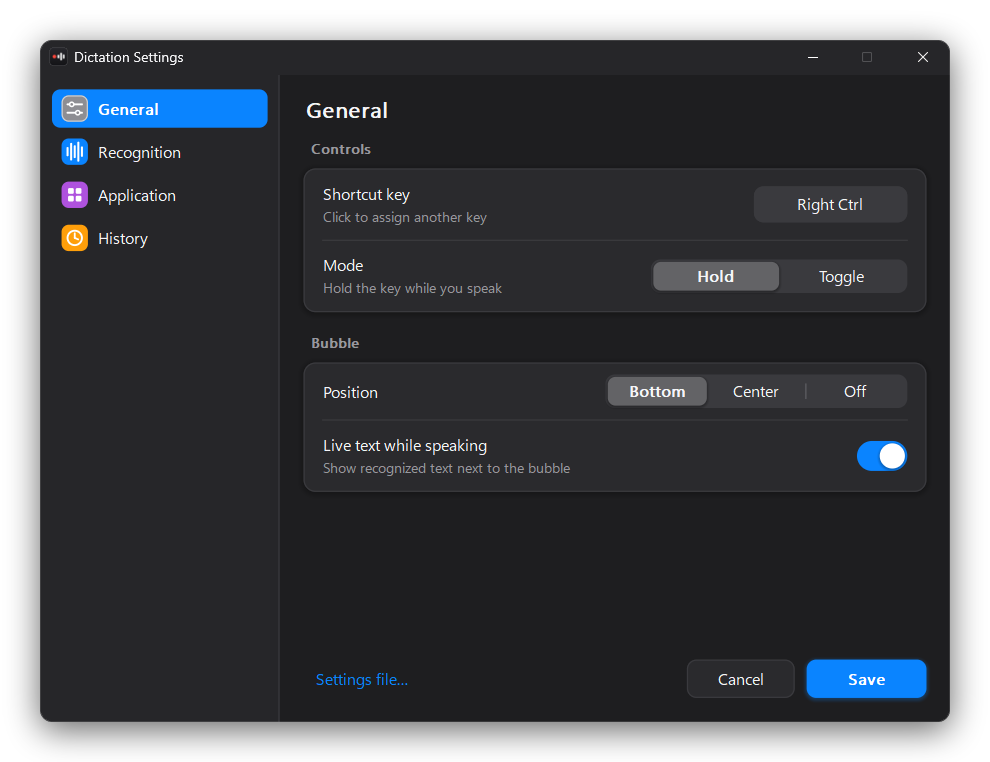
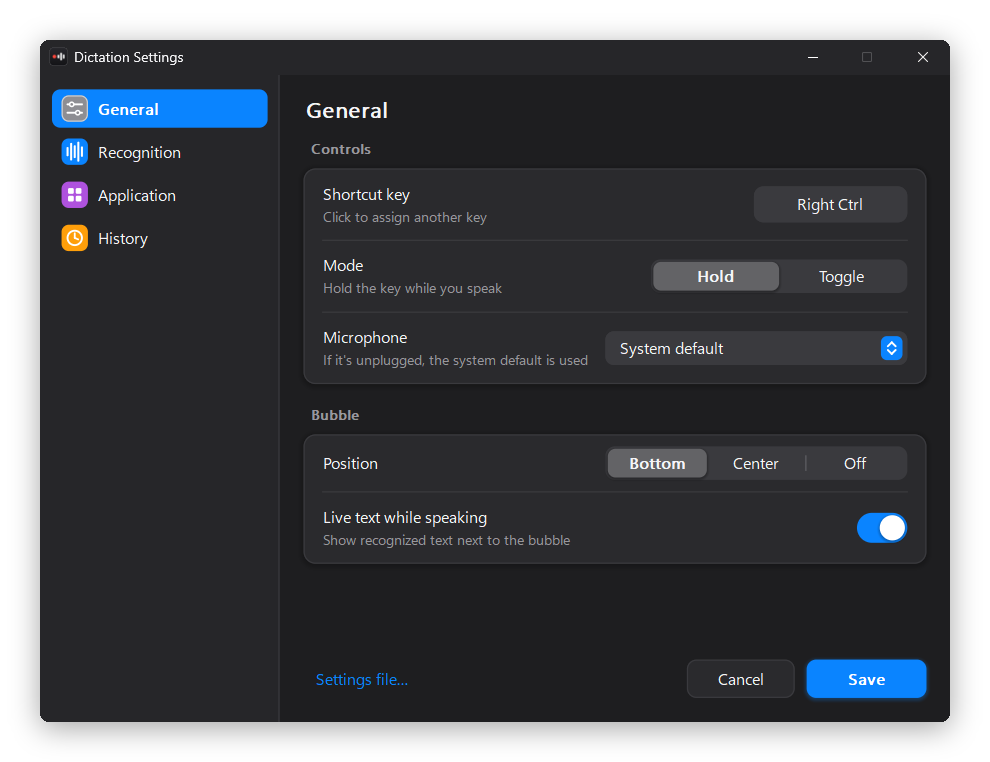
README: settings screenshots with the microphone row

diff --git a/README.md b/README.md
@@ -78,7 +78,7 @@ Electron bundles you have to take on trust. **dictate** is a small native Window
 <p align="center">
   <picture>
     <source media="(prefers-color-scheme: dark)" srcset="docs/settings-dark.png">
-    <img alt="Settings window: a sidebar with General, Recognition, Application and History pages; the General page shows the shortcut key, hold or toggle mode, bubble position and live text" src="docs/settings-light.png" width="49%">
+    <img alt="Settings window: a sidebar with General, Recognition, Application and History pages; the General page shows the shortcut key, hold or toggle mode, microphone, bubble position and live text" src="docs/settings-light.png" width="49%">
   </picture>
   <picture>
     <source media="(prefers-color-scheme: dark)" srcset="docs/history-dark.png">
